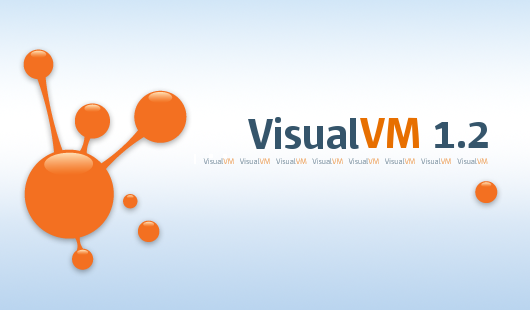
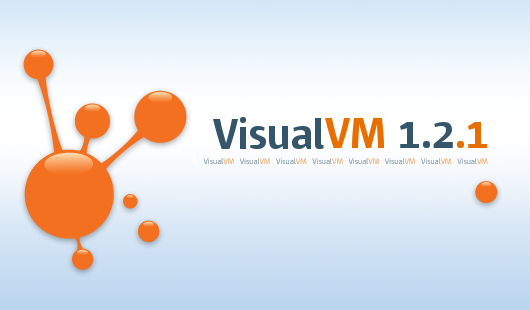
Branding for VisualVM 1.2.1

Changed region(s): [[0.3925, 0.3774, 0.9358, 0.4935]]

diff --git a/branches/release121/visualvm/appui/src/com/sun/tools/visualvm/modules/appui/AboutAction.java b/branches/release121/visualvm/appui/src/com/sun/tools/visualvm/modules/appui/AboutAction.java
@@ -51,7 +51,7 @@ import org.openide.windows.WindowManager;
 public final class AboutAction extends AbstractAction {
     private final static Logger LOGGER = Logger.getLogger(AboutAction.class.getName());
     
-    private String versionString = "1.2"; // Use "Dev" for development builds   // NOI18N
+    private String versionString = "1.2.1"; // Use "Dev" for development builds   // NOI18N
 
 
     public AboutAction() {
